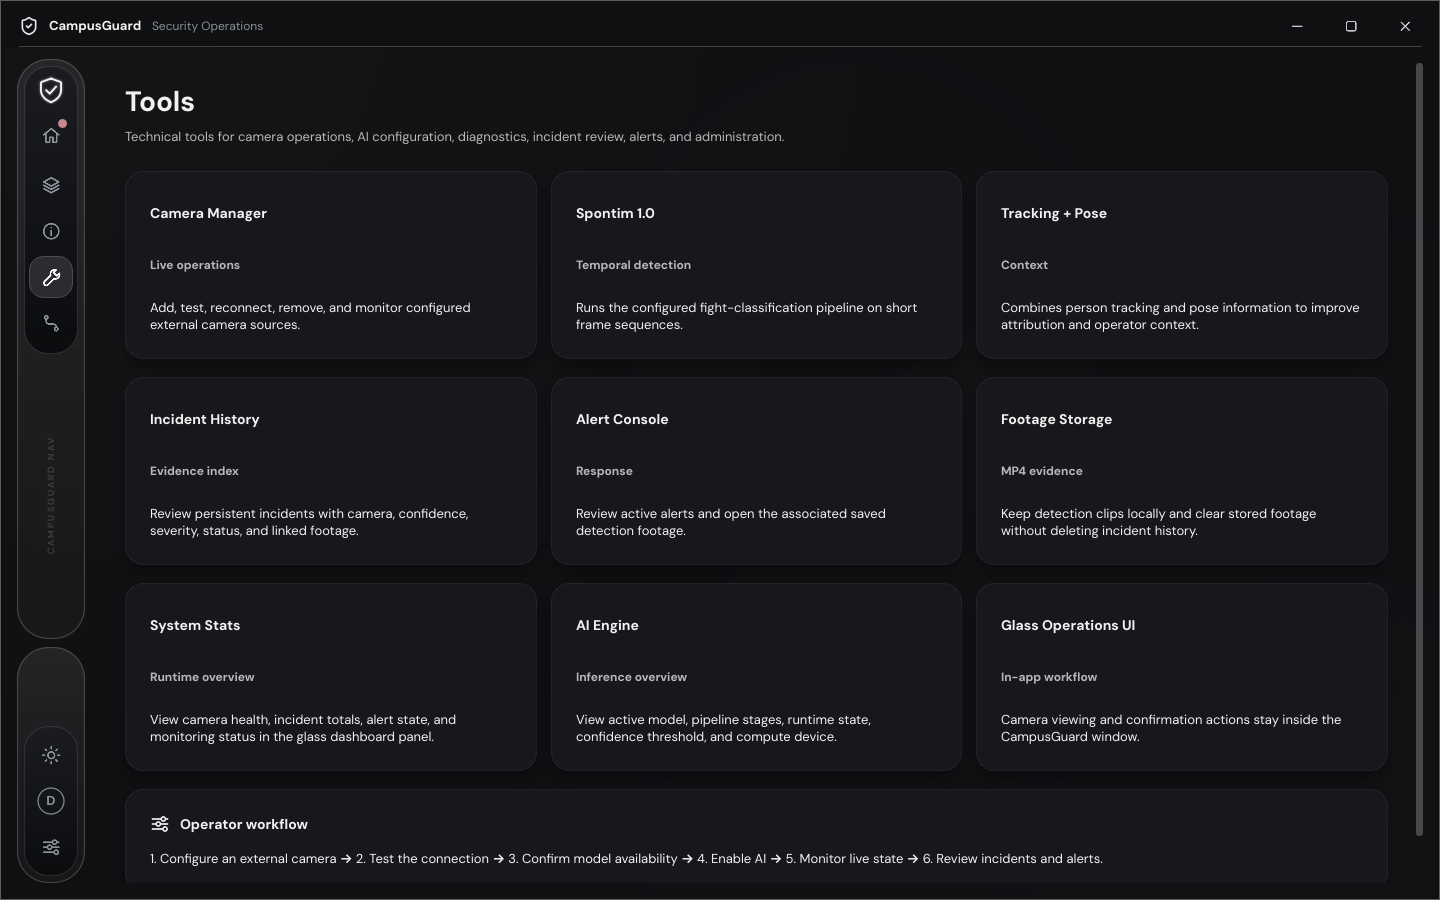
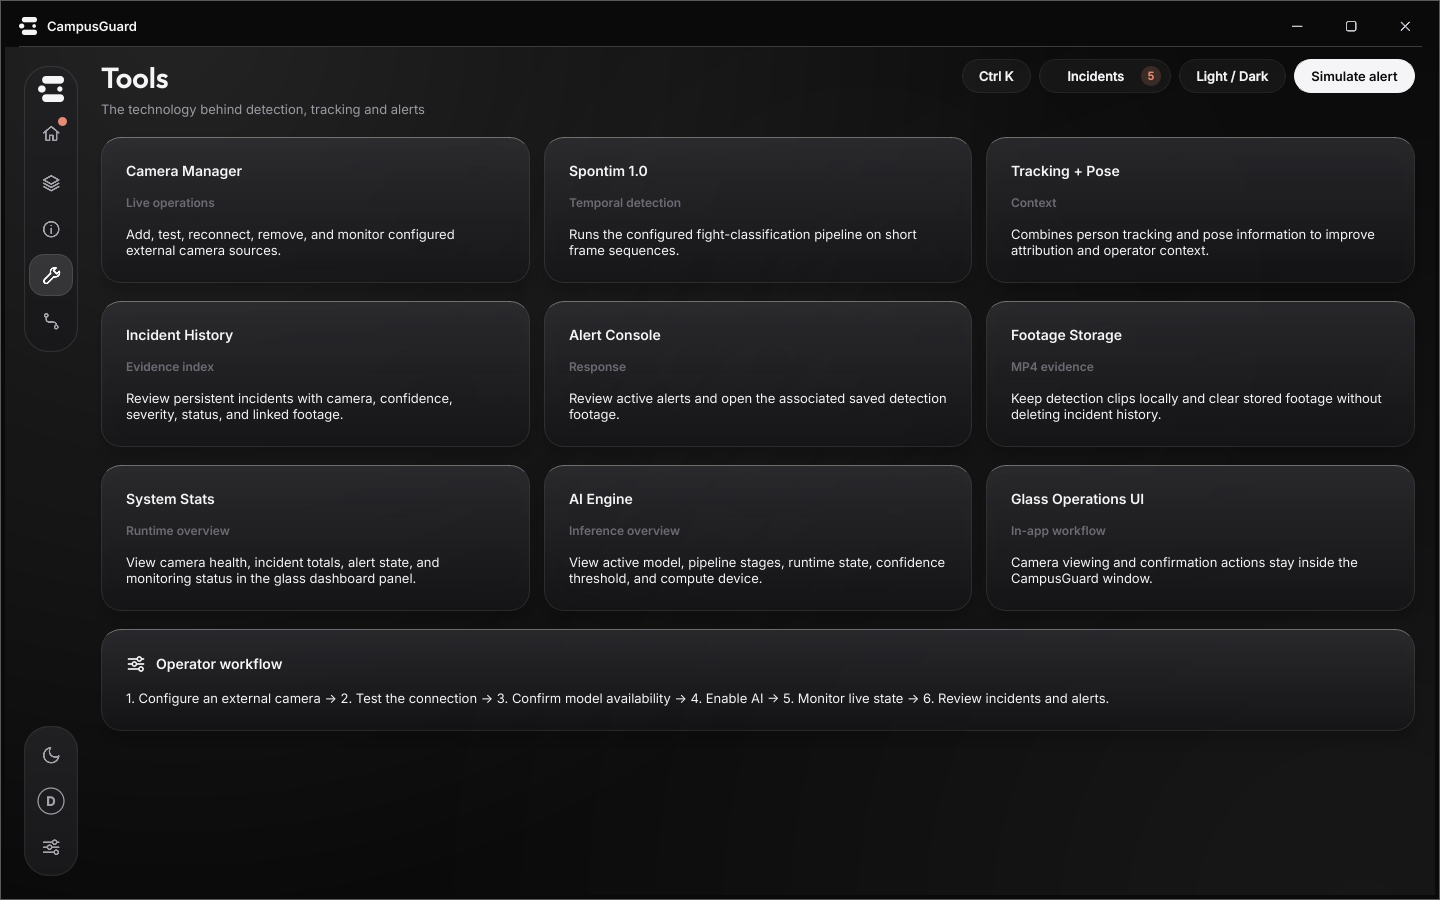
Refresh screenshots and notes for the v3 interface
Claude-Session: https://claude.ai/code/session_01DZQhVHiRT8Q8h25Fm4zJeQ

diff --git a/CHANGELOG.md b/CHANGELOG.md
@@ -1,5 +1,14 @@
 # CampusGuard Desktop — Update Notes
 
+## v3 interface
+
+- New look across the whole desktop app: graphite surfaces with a coral signal colour, Inter for text, Outfit for titles and JetBrains Mono for figures, in dark and light.
+- New Dashboard, Incidents (list, clip, notes, confirm / false alarm, WhatsApp), Alerts (channels and history), Services (pause, reconnect, start with Windows) and Settings tabs, plus a Ctrl K command palette and a Simulate alert button.
+- Cameras is now a card grid with **Edit** (new), Disable/Enable AI, Reconnect and Remove. The camera form also sets zone and alert sensitivity.
+- Login and the app and installer icon use the three-pill logo.
+- Fixed: old rows stayed painted over new ones in the Incidents, Alerts and Dashboard lists; a Python error printed on shutdown from the overlay's event filter; unreadable text on the How it works steps in light mode.
+- **Not tested here:** live YOLO detection, WhatsApp Cloud and ntfy delivery, GPU video decoding and a real school RTSP network. The blur behind dialogs is approximated with a translucent layer.
+
 ## Phase 3–4: remote desktop client and school server installer
 
 - Added a token-protected remote server viewer with camera health, polled JPEG previews, incident/alert actions, clip playback, camera management and CSV import. Local mode remains the default and uses the existing desktop workflow.

diff --git a/README.md b/README.md
@@ -24,8 +24,6 @@
 | ![Incidents](docs/screenshots/dark-incidents.png) | ![Incidents](docs/screenshots/light-incidents.png) |
 | ![Alerts](docs/screenshots/dark-alerts.png) | ![Alerts](docs/screenshots/light-alerts.png) |
 | ![Settings](docs/screenshots/dark-settings.png) | ![Settings](docs/screenshots/light-settings.png) |
-| ![Navigation panel](docs/screenshots/dark-navigation.png) | ![Navigation panel](docs/screenshots/light-navigation.png) |
-| ![Incident list](docs/screenshots/dark-incident-popup.png) | ![Incident list](docs/screenshots/light-incident-popup.png) |
 | ![Alert pop-up](docs/screenshots/dark-alert-toast.png) | ![Alert pop-up](docs/screenshots/light-alert-toast.png) |
 | ![School server](docs/screenshots/dark-server-viewer.png) | ![School server](docs/screenshots/light-server-viewer.png) |
 
